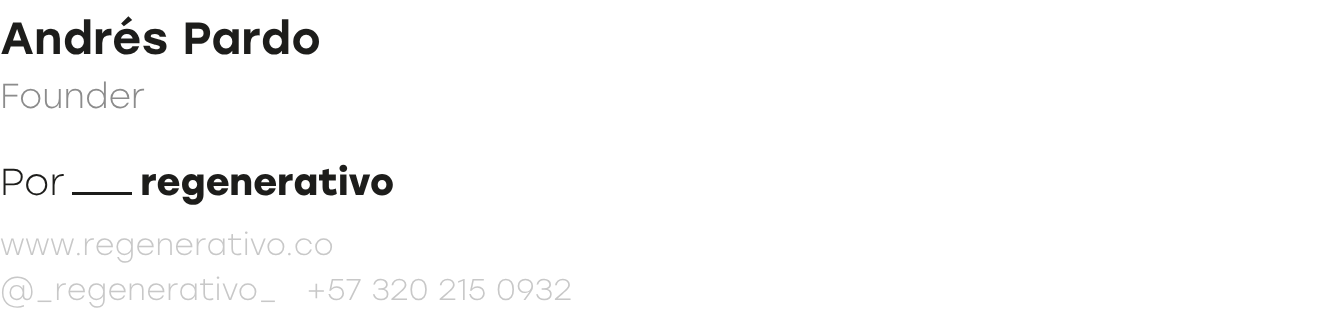
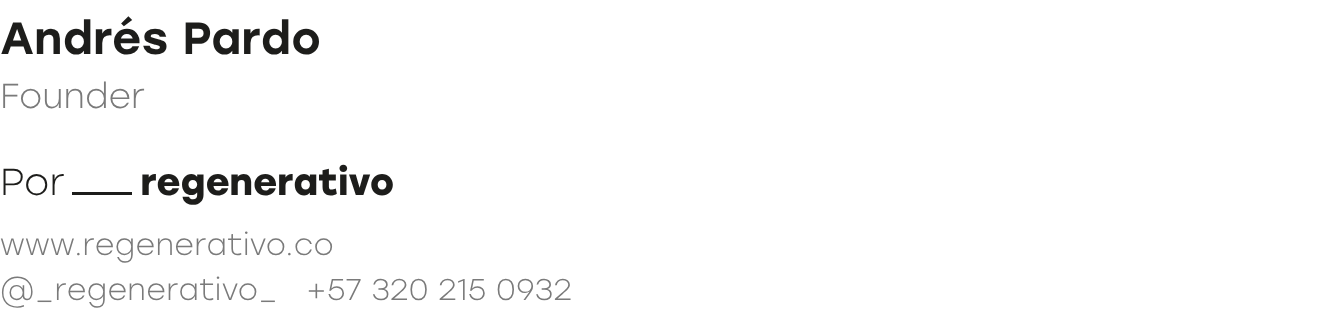
Correos: fondo blanco alineado a la izquierda, listas con línea punteada, cejas sin 'Portal de encargos', gris C (#7A7A7A) en textos delgados; firmas con el gris nuevo
Claude-Session: https://claude.ai/code/session_01WuZsYUNey8Chyf3KxhrfD2

Changed region(s): [[0.0, 0.7034, 0.2485, 0.7951], [0.2174, 0.8563, 0.4348, 0.9174], [0.0, 0.8563, 0.1864, 0.948]]

diff --git a/portal/supabase/functions/onedrive-conexion/index.ts b/portal/supabase/functions/onedrive-conexion/index.ts
@@ -383,14 +383,14 @@ async function subir(at: string, encargoId: string, carpeta: string, nombre: str
 // Membrete de los correos: encabezado y pie van como imagen (Stolzl se ve igual en cualquier correo); el texto en Metronic Pro con Arial de respaldo.
 const MEMB = "https://regenerativo.co/portal/assets/correo";
 const membrete = (contenido: string) => `<!doctype html><html><head><meta charset="utf-8"><style>@font-face{font-family:"Metronic Pro";src:url(https://regenerativo.co/portal/assets/fonts/metronic-regular.woff) format("woff")}</style></head>
-<body style="margin:0;padding:24px 0;background:#F4F4F2"><table role="presentation" width="600" align="center" cellpadding="0" cellspacing="0" style="width:600px;max-width:100%;background:#fff;border-collapse:collapse">
-<tr><td style="padding:26px 36px 0"><img src="${MEMB}/membrete-sup.png" width="528" alt="PORTAL DE ENCARGOS · regenerativo" style="display:block;width:528px;max-width:100%;height:auto;border:0"></td></tr>
-<tr><td style="padding:30px 36px 8px;font-family:'Metronic Pro',Arial,sans-serif;color:#1D1D1B;font-size:15px;line-height:1.55">${contenido}</td></tr>
-<tr><td style="padding:34px 36px 26px"><img src="${MEMB}/membrete-inf.png" width="528" alt="Área de Proyectos · Por _ regenerativo · www.regenerativo.co · @_regenerativo_ · +57 320 215 0932" style="display:block;width:528px;max-width:100%;height:auto;border:0"></td></tr>
+<body style="margin:0;padding:0;background:#ffffff"><table role="presentation" width="600" cellpadding="0" cellspacing="0" style="width:600px;max-width:100%;background:#ffffff;border-collapse:collapse;margin:0">
+<tr><td style="padding:32px 32px 0"><img src="${MEMB}/membrete-sup.png" width="440" alt="PORTAL DE ENCARGOS · regenerativo" style="display:block;width:440px;max-width:100%;height:auto;border:0"></td></tr>
+<tr><td style="padding:30px 32px 8px;font-family:'Metronic Pro',Arial,sans-serif;color:#1D1D1B;font-size:15px;line-height:1.55">${contenido}</td></tr>
+<tr><td style="padding:34px 32px 32px"><img src="${MEMB}/membrete-inf.png" width="440" alt="Área de Proyectos · Por _ regenerativo · www.regenerativo.co · @_regenerativo_ · +57 320 215 0932" style="display:block;width:440px;max-width:100%;height:auto;border:0"></td></tr>
 </table></body></html>`;
-const CEJA = (t: string) => `<p style="margin:0 0 6px;font-size:11px;letter-spacing:.12em;text-transform:uppercase;color:#BFBFBF">${t}</p>`;
+const CEJA = (t: string) => `<p style="margin:0 0 6px;font-size:11px;letter-spacing:.12em;text-transform:uppercase;color:#7A7A7A">${t}</p>`;
 const BOTON = (url: string) => `<p style="margin:24px 0"><a href="${url}" style="display:inline-block;background:#1D1D1B;color:#fff;text-decoration:none;border-radius:999px;padding:11px 22px;font-size:14px">Ver en el portal</a></p>`;
-const NOTA = `<p style="margin:0;color:#999;font-size:12px">Entra en la pestaña Clientes con el nombre del encargo y tu contraseña.</p>`;
+const NOTA = `<p style="margin:0;color:#7A7A7A;font-size:12px">Entra en la pestaña Clientes con el nombre del encargo y tu contraseña.</p>`;
 async function avisoComentario(id: string) {
   const { data: c } = await admin.from("comentarios").select("id,texto,tipo,autor_nombre,avisado,creado,encargo:encargos(nombre,codigo)").eq("id", id).single();
   if (!c) throw new Error("Comentario no encontrado.");
@@ -404,10 +404,10 @@ async function avisoComentario(id: string) {
   } catch (_) { return { enviado: false, motivo: "Falta el permiso para enviar correos: reconecta OneDrive en Ajustes." }; }
   const e: any = c.encargo || {};
   const esc = (s: string) => (s || "").replace(/[&<>]/g, (x) => ({ "&": "&amp;", "<": "&lt;", ">": "&gt;" } as any)[x]);
-  const html = membrete(`${CEJA(`${c.tipo === "duda" ? "Duda" : "Comentario"} de cliente · portal de encargos`)}
+  const html = membrete(`${CEJA(`${c.tipo === "duda" ? "Duda" : "Comentario"} de cliente`)}
     <h2 style="margin:0 0 6px;font-weight:400;font-size:22px;line-height:1.3">${esc(e.nombre)}</h2>
-    <p style="color:#999;margin:0 0 18px">${esc(c.autor_nombre || "Cliente")} · ${new Date(c.creado).toLocaleString("es-CO", { timeZone: "America/Bogota" })}</p>
-    <p style="font-size:16px;line-height:1.5;background:#F3EFE6;border-radius:14px;padding:16px">${esc(c.texto).replace(/\n/g, "<br>")}</p>
+    <p style="color:#7A7A7A;margin:0 0 18px">${esc(c.autor_nombre || "Cliente")} · ${new Date(c.creado).toLocaleString("es-CO", { timeZone: "America/Bogota" })}</p>
+    <p style="font-size:16px;line-height:1.5;border-top:1px dotted #CFCFCF;border-bottom:1px dotted #CFCFCF;padding:12px 0">${esc(c.texto).replace(/\n/g, "<br>")}</p>
     <p style="margin:24px 0"><a href="${PORTAL}#/encargos" style="display:inline-block;background:#1D1D1B;color:#fff;text-decoration:none;border-radius:999px;padding:11px 22px;font-size:14px">Responder en el portal</a></p>`);
   const r = await fetch("https://graph.microsoft.com/v1.0/me/sendMail", {
     method: "POST", headers: { Authorization: `Bearer ${at}`, "Content-Type": "application/json" },
@@ -434,10 +434,10 @@ const escH = (s: string) => (s || "").replace(/[&<>]/g, (x) => ({ "&": "&amp;", 
 async function avisoCliente(encargoId: string, accion: string, archivo: string) {
   const { data: e } = await admin.from("encargos").select("nombre").eq("id", encargoId).maybeSingle();
   const cuando = new Date().toLocaleString("es-CO", { timeZone: "America/Bogota" });
-  const html = membrete(`${CEJA(`Portal de encargos · ${escH(accion)}`)}
+  const html = membrete(`${CEJA(escH(accion))}
     <h2 style="margin:0 0 6px;font-weight:400;font-size:22px;line-height:1.3">${escH(e?.nombre || "")}</h2>
-    <p style="color:#999;margin:0 0 18px">${cuando}</p>
-    <p style="font-size:16px;line-height:1.5;background:#F3EFE6;border-radius:14px;padding:16px">${escH(archivo)}</p>`);
+    <p style="color:#7A7A7A;margin:0 0 18px">${cuando}</p>
+    <p style="font-size:16px;line-height:1.5;border-top:1px dotted #CFCFCF;border-bottom:1px dotted #CFCFCF;padding:12px 0">${escH(archivo)}</p>`);
   return correoProyectos(`${accion} · ${e?.nombre || ""}`, html);
 }
 // ---- Avisos al cliente por correo (desde la cuenta de regenerativo) ----
@@ -479,10 +479,10 @@ async function revisarEnvios() {
       const para = await correosCliente(e.id);
       if (para.length) {
         atCorreo = atCorreo || await tokenCorreo();
-        const items = nuevos.map((a: any) => `<li style="margin:4px 0">${escH(a.nombre)}</li>`).join("");
-        const html = plantillaCliente("Portal de encargos · nuevos documentos", e.nombre,
+        const items = nuevos.map((a: any) => `<li style="padding:9px 0;border-bottom:1px dotted #CFCFCF">${escH(a.nombre)}</li>`).join("");
+        const html = plantillaCliente("Nuevos documentos", e.nombre,
           `<p style="font-size:15px;line-height:1.5">Hola, te compartimos ${nuevos.length === 1 ? "un documento nuevo" : nuevos.length + " documentos nuevos"} del proyecto:</p>
-           <ul style="font-size:15px;line-height:1.5;background:#F3EFE6;border-radius:14px;padding:14px 14px 14px 34px">${items}</ul>`);
+           <ul style="list-style:none;margin:0;padding:0;font-size:15px;line-height:1.5;max-width:520px;border-top:1px dotted #CFCFCF">${items}</ul>`);
         enviado = await enviarCorreo(atCorreo, para, `${nuevos.length === 1 ? "Nuevo documento" : "Nuevos documentos"} · ${e.nombre}`, html);
         if (!enviado) continue;   // se reintenta en la próxima revisión
       }
@@ -501,9 +501,9 @@ async function avisoRespuesta(id: string) {
   if (!para.length) return { enviado: false, motivo: "El cliente no tiene correo para avisos (Ajustes del encargo)." };
   const at = await tokenCorreo();
   const nombre = (c as any).encargo?.nombre || "";
-  const html = plantillaCliente("Portal de encargos · respuesta de regenerativo", nombre,
-    `<p style="color:#999;margin:0 0 6px">Tu mensaje</p><p style="font-size:15px;line-height:1.5;margin:0 0 16px">${escH(c.texto).replace(/\n/g, "<br>")}</p>
-     <p style="color:#999;margin:0 0 6px">Respuesta</p><p style="font-size:16px;line-height:1.5;background:#F3EFE6;border-radius:14px;padding:16px;margin:0">${escH(c.respuesta).replace(/\n/g, "<br>")}</p>`);
+  const html = plantillaCliente("Respuesta de regenerativo", nombre,
+    `<p style="color:#7A7A7A;margin:0 0 6px">Tu mensaje</p><p style="font-size:15px;line-height:1.5;margin:0 0 16px">${escH(c.texto).replace(/\n/g, "<br>")}</p>
+     <p style="color:#7A7A7A;margin:0 0 6px">Respuesta</p><p style="font-size:16px;line-height:1.5;border-top:1px dotted #CFCFCF;border-bottom:1px dotted #CFCFCF;padding:12px 0;margin:0">${escH(c.respuesta).replace(/\n/g, "<br>")}</p>`);
   const ok = await enviarCorreo(at, para, `regenerativo respondió · ${nombre}`, html);
   if (ok) await admin.from("comentarios").update({ respuesta_avisada: new Date().toISOString() }).eq("id", id);
   return { enviado: ok };

diff --git a/portal/supabase/functions/correo-cliente/index.ts b/portal/supabase/functions/correo-cliente/index.ts
@@ -37,14 +37,14 @@ async function correosCliente(encargoId: string): Promise<string[]> {
 // Membrete de los correos: encabezado y pie van como imagen (Stolzl se ve igual en cualquier correo); el texto en Metronic Pro con Arial de respaldo.
 const MEMB = "https://regenerativo.co/portal/assets/correo";
 const membrete = (contenido: string) => `<!doctype html><html><head><meta charset="utf-8"><style>@font-face{font-family:"Metronic Pro";src:url(https://regenerativo.co/portal/assets/fonts/metronic-regular.woff) format("woff")}</style></head>
-<body style="margin:0;padding:24px 0;background:#F4F4F2"><table role="presentation" width="600" align="center" cellpadding="0" cellspacing="0" style="width:600px;max-width:100%;background:#fff;border-collapse:collapse">
-<tr><td style="padding:26px 36px 0"><img src="${MEMB}/membrete-sup.png" width="528" alt="PORTAL DE ENCARGOS · regenerativo" style="display:block;width:528px;max-width:100%;height:auto;border:0"></td></tr>
-<tr><td style="padding:30px 36px 8px;font-family:'Metronic Pro',Arial,sans-serif;color:#1D1D1B;font-size:15px;line-height:1.55">${contenido}</td></tr>
-<tr><td style="padding:34px 36px 26px"><img src="${MEMB}/membrete-inf.png" width="528" alt="Área de Proyectos · Por _ regenerativo · www.regenerativo.co · @_regenerativo_ · +57 320 215 0932" style="display:block;width:528px;max-width:100%;height:auto;border:0"></td></tr>
+<body style="margin:0;padding:0;background:#ffffff"><table role="presentation" width="600" cellpadding="0" cellspacing="0" style="width:600px;max-width:100%;background:#ffffff;border-collapse:collapse;margin:0">
+<tr><td style="padding:32px 32px 0"><img src="${MEMB}/membrete-sup.png" width="440" alt="PORTAL DE ENCARGOS · regenerativo" style="display:block;width:440px;max-width:100%;height:auto;border:0"></td></tr>
+<tr><td style="padding:30px 32px 8px;font-family:'Metronic Pro',Arial,sans-serif;color:#1D1D1B;font-size:15px;line-height:1.55">${contenido}</td></tr>
+<tr><td style="padding:34px 32px 32px"><img src="${MEMB}/membrete-inf.png" width="440" alt="Área de Proyectos · Por _ regenerativo · www.regenerativo.co · @_regenerativo_ · +57 320 215 0932" style="display:block;width:440px;max-width:100%;height:auto;border:0"></td></tr>
 </table></body></html>`;
-const CEJA = (t: string) => `<p style="margin:0 0 6px;font-size:11px;letter-spacing:.12em;text-transform:uppercase;color:#BFBFBF">${t}</p>`;
+const CEJA = (t: string) => `<p style="margin:0 0 6px;font-size:11px;letter-spacing:.12em;text-transform:uppercase;color:#7A7A7A">${t}</p>`;
 const BOTON = (url: string) => `<p style="margin:24px 0"><a href="${url}" style="display:inline-block;background:#1D1D1B;color:#fff;text-decoration:none;border-radius:999px;padding:11px 22px;font-size:14px">Ver en el portal</a></p>`;
-const NOTA = `<p style="margin:0;color:#999;font-size:12px">Entra en la pestaña Clientes con el nombre del encargo y tu contraseña.</p>`;
+const NOTA = `<p style="margin:0;color:#7A7A7A;font-size:12px">Entra en la pestaña Clientes con el nombre del encargo y tu contraseña.</p>`;
 function plantilla(ceja: string, titulo: string, cuerpo: string) {
   return membrete(`${CEJA(escH(ceja))}<h2 style="margin:0 0 18px;font-weight:400;font-size:22px;line-height:1.3">${escH(titulo)}</h2>${cuerpo}${BOTON(PORTAL)}${NOTA}`);
 }
@@ -93,10 +93,10 @@ async function revisarEnvios() {
       const para = await correosCliente(e.id);
       if (para.length) {
         atCorreo = atCorreo || await token("offline_access Mail.Send");
-        const items = nuevos.map((a) => `<li style="margin:4px 0">${escH(a.nombre)}</li>`).join("");
-        const html = plantilla("Portal de encargos · nuevos documentos", e.nombre,
+        const items = nuevos.map((a) => `<li style="padding:9px 0;border-bottom:1px dotted #CFCFCF">${escH(a.nombre)}</li>`).join("");
+        const html = plantilla("Nuevos documentos", e.nombre,
           `<p style="font-size:15px;line-height:1.5">Hola, te compartimos ${nuevos.length === 1 ? "un documento nuevo" : nuevos.length + " documentos nuevos"} del proyecto:</p>
-           <ul style="font-size:15px;line-height:1.5;background:#F3EFE6;border-radius:14px;padding:14px 14px 14px 34px">${items}</ul>`);
+           <ul style="list-style:none;margin:0;padding:0;font-size:15px;line-height:1.5;max-width:520px;border-top:1px dotted #CFCFCF">${items}</ul>`);
         enviado = await enviar(atCorreo, para, `${nuevos.length === 1 ? "Nuevo documento" : "Nuevos documentos"} · ${e.nombre}`, html);
         if (!enviado) continue;   // se reintenta en la próxima revisión
       }
@@ -115,9 +115,9 @@ async function avisoRespuesta(id: string) {
   if (!para.length) return { enviado: false, motivo: "El cliente no tiene correo para avisos (Ajustes del encargo)." };
   const at = await token("offline_access Mail.Send");
   const nombre = (c as any).encargo?.nombre || "";
-  const html = plantilla("Portal de encargos · respuesta de regenerativo", nombre,
-    `<p style="color:#999;margin:0 0 6px">Tu mensaje</p><p style="font-size:15px;line-height:1.5;margin:0 0 16px">${escH(c.texto).replace(/\n/g, "<br>")}</p>
-     <p style="color:#999;margin:0 0 6px">Respuesta</p><p style="font-size:16px;line-height:1.5;background:#F3EFE6;border-radius:14px;padding:16px;margin:0">${escH(c.respuesta).replace(/\n/g, "<br>")}</p>`);
+  const html = plantilla("Respuesta de regenerativo", nombre,
+    `<p style="color:#7A7A7A;margin:0 0 6px">Tu mensaje</p><p style="font-size:15px;line-height:1.5;margin:0 0 16px">${escH(c.texto).replace(/\n/g, "<br>")}</p>
+     <p style="color:#7A7A7A;margin:0 0 6px">Respuesta</p><p style="font-size:16px;line-height:1.5;border-top:1px dotted #CFCFCF;border-bottom:1px dotted #CFCFCF;padding:12px 0;margin:0">${escH(c.respuesta).replace(/\n/g, "<br>")}</p>`);
   const ok = await enviar(at, para, `regenerativo respondió · ${nombre}`, html);
   if (ok) await admin.from("comentarios").update({ respuesta_avisada: new Date().toISOString() }).eq("id", id);
   return { enviado: ok, desde: comoProyectos === false ? CORREO_APARDO : CORREO_PROYECTOS };
@@ -137,10 +137,10 @@ Deno.serve(async (req) => {
       const { data: k } = await admin.from("integraciones").select("refresh_token").eq("id", "cron").maybeSingle();
       if (!k?.refresh_token || b.clave !== k.refresh_token) return json({ error: "Sin acceso." }, 403);
       const at = await token("offline_access Mail.Send");
-      const html = plantilla("Portal de encargos · nuevos documentos", "26  I  EJEMPLO (PRUEBA)",
+      const html = plantilla("Nuevos documentos", "26  I  EJEMPLO (PRUEBA)",
         `<p style="font-size:15px;line-height:1.5">Hola, te compartimos un documento nuevo del proyecto:</p>
-         <ul style="font-size:15px;line-height:1.5;background:#F3EFE6;border-radius:14px;padding:14px 14px 14px 34px"><li style="margin:4px 0">EJEMPLO DE DOCUMENTO.pdf</li></ul>
-         <p style="color:#999;font-size:12px">Este es un correo de prueba del portal: así le llegan los avisos al cliente.</p>`);
+         <ul style="list-style:none;margin:0;padding:0;font-size:15px;line-height:1.5;max-width:520px;border-top:1px dotted #CFCFCF"><li style="padding:9px 0;border-bottom:1px dotted #CFCFCF">EJEMPLO DE DOCUMENTO.pdf</li></ul>
+         <p style="color:#7A7A7A;font-size:12px">Este es un correo de prueba del portal: así le llegan los avisos al cliente.</p>`);
       const ok = await enviarCliente(at, [CORREO_APARDO], "Prueba · Nuevo documento · 26  I  EJEMPLO", html);
       return json({ enviado: ok, desde: comoProyectos ? CORREO_PROYECTOS : CORREO_APARDO });
     }

diff --git a/portal/supabase/functions/avisos-cliente/index.ts b/portal/supabase/functions/avisos-cliente/index.ts
@@ -52,15 +52,15 @@ async function documentos(at: string, base: string) {
 // Membrete de los correos: encabezado y pie van como imagen (Stolzl se ve igual en cualquier correo); el texto en Metronic Pro con Arial de respaldo.
 const MEMB = "https://regenerativo.co/portal/assets/correo";
 const membrete = (contenido: string) => `<!doctype html><html><head><meta charset="utf-8"><style>@font-face{font-family:"Metronic Pro";src:url(https://regenerativo.co/portal/assets/fonts/metronic-regular.woff) format("woff")}</style></head>
-<body style="margin:0;padding:24px 0;background:#F4F4F2"><table role="presentation" width="600" align="center" cellpadding="0" cellspacing="0" style="width:600px;max-width:100%;background:#fff;border-collapse:collapse">
-<tr><td style="padding:26px 36px 0"><img src="${MEMB}/membrete-sup.png" width="528" alt="PORTAL DE ENCARGOS · regenerativo" style="display:block;width:528px;max-width:100%;height:auto;border:0"></td></tr>
-<tr><td style="padding:30px 36px 8px;font-family:'Metronic Pro',Arial,sans-serif;color:#1D1D1B;font-size:15px;line-height:1.55">${contenido}</td></tr>
-<tr><td style="padding:34px 36px 26px"><img src="${MEMB}/membrete-inf.png" width="528" alt="Área de Proyectos · Por _ regenerativo · www.regenerativo.co · @_regenerativo_ · +57 320 215 0932" style="display:block;width:528px;max-width:100%;height:auto;border:0"></td></tr>
+<body style="margin:0;padding:0;background:#ffffff"><table role="presentation" width="600" cellpadding="0" cellspacing="0" style="width:600px;max-width:100%;background:#ffffff;border-collapse:collapse;margin:0">
+<tr><td style="padding:32px 32px 0"><img src="${MEMB}/membrete-sup.png" width="440" alt="PORTAL DE ENCARGOS · regenerativo" style="display:block;width:440px;max-width:100%;height:auto;border:0"></td></tr>
+<tr><td style="padding:30px 32px 8px;font-family:'Metronic Pro',Arial,sans-serif;color:#1D1D1B;font-size:15px;line-height:1.55">${contenido}</td></tr>
+<tr><td style="padding:34px 32px 32px"><img src="${MEMB}/membrete-inf.png" width="440" alt="Área de Proyectos · Por _ regenerativo · www.regenerativo.co · @_regenerativo_ · +57 320 215 0932" style="display:block;width:440px;max-width:100%;height:auto;border:0"></td></tr>
 </table></body></html>`;
-const CEJA = (t: string) => `<p style="margin:0 0 6px;font-size:11px;letter-spacing:.12em;text-transform:uppercase;color:#BFBFBF">${t}</p>`;
+const CEJA = (t: string) => `<p style="margin:0 0 6px;font-size:11px;letter-spacing:.12em;text-transform:uppercase;color:#7A7A7A">${t}</p>`;
 const BOTON = (url: string) => `<p style="margin:24px 0"><a href="${url}" style="display:inline-block;background:#1D1D1B;color:#fff;text-decoration:none;border-radius:999px;padding:11px 22px;font-size:14px">Ver en el portal</a></p>`;
-const NOTA = `<p style="margin:0;color:#999;font-size:12px">Entra en la pestaña Clientes con el nombre del encargo y tu contraseña.</p>`;
-const plantilla = (titulo: string, cuerpo: string) => membrete(`${CEJA("Portal de encargos · actualización")}<h2 style="margin:0 0 18px;font-weight:400;font-size:22px;line-height:1.3">${esc(titulo)}</h2>${cuerpo}${BOTON(PORTAL)}${NOTA}`);
+const NOTA = `<p style="margin:0;color:#7A7A7A;font-size:12px">Entra en la pestaña Clientes con el nombre del encargo y tu contraseña.</p>`;
+const plantilla = (titulo: string, cuerpo: string) => membrete(`${CEJA("Actualización")}<h2 style="margin:0 0 18px;font-weight:400;font-size:22px;line-height:1.3">${esc(titulo)}</h2>${cuerpo}${BOTON(PORTAL)}${NOTA}`);
 
 // Sale como proyectos@regenerativo.co con copia a apardo@. Si Microsoft no deja "Enviar como" proyectos@, sale de apardo@ con copia a proyectos@.
 const CORREO_APARDO = "apardo@regenerativo.co";
@@ -124,14 +124,14 @@ async function revisar() {
       atCorreo = atCorreo || await token("offline_access Mail.Send");
       const partes: string[] = [];
       if (nuevosAll.length) partes.push(`<p style="font-size:15px;line-height:1.5">${nuevosAll.length === 1 ? "Hay un documento nuevo" : `Hay ${nuevosAll.length} documentos nuevos`} en Legales:</p>
-        <ul style="font-size:15px;line-height:1.5;background:#F3EFE6;border-radius:14px;padding:14px 14px 14px 34px">${nuevosAll.map((d) => `<li>${esc(d.nombre)}</li>`).join("")}</ul>`);
+        <ul style="list-style:none;margin:0;padding:0;font-size:15px;line-height:1.5;max-width:520px;border-top:1px dotted #CFCFCF">${nuevosAll.map((d) => `<li style="padding:9px 0;border-bottom:1px dotted #CFCFCF">${esc(d.nombre)}</li>`).join("")}</ul>`);
       for (const [pre, nom] of [["PRESUPUESTO", "Presupuesto"], ["PROGRAMACI", "Programación"]]) {
         const l = nuevosObra.filter((d) => d.ruta.startsWith(pre)); if (!l.length) continue;
         partes.push(`<p style="font-size:15px;line-height:1.5">${l.length === 1 ? "Hay un archivo nuevo" : `Hay ${l.length} archivos nuevos`} en <b>${nom}</b>:</p>
-        <ul style="font-size:15px;line-height:1.5;background:#F3EFE6;border-radius:14px;padding:14px 14px 14px 34px">${l.map((d) => `<li>${esc(d.ruta.split("/").slice(1).join(" / "))}</li>`).join("")}</ul>`);
+        <ul style="list-style:none;margin:0;padding:0;font-size:15px;line-height:1.5;max-width:520px;border-top:1px dotted #CFCFCF">${l.map((d) => `<li style="padding:9px 0;border-bottom:1px dotted #CFCFCF">${d.ruta.split("/").length > 2 ? `<span style="color:#7A7A7A">${esc(d.ruta.split("/").slice(1, -1).join(" / "))}</span>&nbsp;&nbsp;` : ""}${esc(d.nombre)}</li>`).join("")}</ul>`);
       }
       if (actualizados.length) partes.push(`<p style="font-size:15px;line-height:1.5">Se ${actualizados.length === 1 ? "actualizó un documento" : `actualizaron ${actualizados.length} documentos`} del proyecto:</p>
-        <ul style="font-size:15px;line-height:1.5;background:#F3EFE6;border-radius:14px;padding:14px 14px 14px 34px">${actualizados.map((d) => `<li>${esc(d.nombre)}</li>`).join("")}</ul>`);
+        <ul style="list-style:none;margin:0;padding:0;font-size:15px;line-height:1.5;max-width:520px;border-top:1px dotted #CFCFCF">${actualizados.map((d) => `<li style="padding:9px 0;border-bottom:1px dotted #CFCFCF">${esc(d.nombre)}</li>`).join("")}</ul>`);
       if (avisarG) { const av = (t || []).length ? Math.round((t || []).reduce((s: number, x: any) => s + Number(x.avance || 0), 0) / (t || []).length * 100) : 0;
         partes.push(`<p style="font-size:15px;line-height:1.5">Se actualizó el <b>cronograma de obra</b> (${(t || []).length} actividades · avance promedio ${av} %).</p>`); }
       enviado = await enviarCliente(atCorreo, para, `Actualización · ${e.nombre}`, plantilla(e.nombre, partes.join("")));

diff --git a/portal/supabase/functions/subir-cliente/index.ts b/portal/supabase/functions/subir-cliente/index.ts
@@ -34,12 +34,12 @@ async function asegurarCarpeta(at: string, ruta: string) {
 // Membrete de los correos: encabezado y pie van como imagen (Stolzl se ve igual en cualquier correo); el texto en Metronic Pro con Arial de respaldo.
 const MEMB = "https://regenerativo.co/portal/assets/correo";
 const membrete = (contenido: string) => `<!doctype html><html><head><meta charset="utf-8"><style>@font-face{font-family:"Metronic Pro";src:url(https://regenerativo.co/portal/assets/fonts/metronic-regular.woff) format("woff")}</style></head>
-<body style="margin:0;padding:24px 0;background:#F4F4F2"><table role="presentation" width="600" align="center" cellpadding="0" cellspacing="0" style="width:600px;max-width:100%;background:#fff;border-collapse:collapse">
-<tr><td style="padding:26px 36px 0"><img src="${MEMB}/membrete-sup.png" width="528" alt="PORTAL DE ENCARGOS · regenerativo" style="display:block;width:528px;max-width:100%;height:auto;border:0"></td></tr>
-<tr><td style="padding:30px 36px 8px;font-family:'Metronic Pro',Arial,sans-serif;color:#1D1D1B;font-size:15px;line-height:1.55">${contenido}</td></tr>
-<tr><td style="padding:34px 36px 26px"><img src="${MEMB}/membrete-inf.png" width="528" alt="Área de Proyectos · Por _ regenerativo · www.regenerativo.co · @_regenerativo_ · +57 320 215 0932" style="display:block;width:528px;max-width:100%;height:auto;border:0"></td></tr>
+<body style="margin:0;padding:0;background:#ffffff"><table role="presentation" width="600" cellpadding="0" cellspacing="0" style="width:600px;max-width:100%;background:#ffffff;border-collapse:collapse;margin:0">
+<tr><td style="padding:32px 32px 0"><img src="${MEMB}/membrete-sup.png" width="440" alt="PORTAL DE ENCARGOS · regenerativo" style="display:block;width:440px;max-width:100%;height:auto;border:0"></td></tr>
+<tr><td style="padding:30px 32px 8px;font-family:'Metronic Pro',Arial,sans-serif;color:#1D1D1B;font-size:15px;line-height:1.55">${contenido}</td></tr>
+<tr><td style="padding:34px 32px 32px"><img src="${MEMB}/membrete-inf.png" width="440" alt="Área de Proyectos · Por _ regenerativo · www.regenerativo.co · @_regenerativo_ · +57 320 215 0932" style="display:block;width:440px;max-width:100%;height:auto;border:0"></td></tr>
 </table></body></html>`;
-const CEJA = (t: string) => `<p style="margin:0 0 6px;font-size:11px;letter-spacing:.12em;text-transform:uppercase;color:#BFBFBF">${t}</p>`;
+const CEJA = (t: string) => `<p style="margin:0 0 6px;font-size:11px;letter-spacing:.12em;text-transform:uppercase;color:#7A7A7A">${t}</p>`;
 
 Deno.serve(async (req) => {
   if (req.method === "OPTIONS") return new Response("ok", { headers: CORS });
@@ -68,10 +68,10 @@ Deno.serve(async (req) => {
     if (!esAdmin) {
       try {
         const am = await token("offline_access Mail.Send");
-        const html = membrete(`${CEJA("Portal de encargos · el cliente compartió un documento")}
+        const html = membrete(`${CEJA("El cliente compartió un documento")}
           <h2 style="margin:0 0 6px;font-weight:400;font-size:22px;line-height:1.3">${escH(e.nombre)}</h2>
-          <p style="color:#999;margin:0 0 18px">${new Date().toLocaleString("es-CO", { timeZone: "America/Bogota" })} · ${escH(carpeta)}</p>
-          <p style="font-size:16px;line-height:1.5;background:#F3EFE6;border-radius:14px;padding:16px">${escH(d.name)}</p>`);
+          <p style="color:#7A7A7A;margin:0 0 18px">${new Date().toLocaleString("es-CO", { timeZone: "America/Bogota" })} · ${escH(carpeta)}</p>
+          <p style="font-size:16px;line-height:1.5;border-top:1px dotted #CFCFCF;border-bottom:1px dotted #CFCFCF;padding:12px 0">${escH(d.name)}</p>`);
         await G(am, "/me/sendMail", { method: "POST", headers: { "Content-Type": "application/json" },
           body: JSON.stringify({ message: { subject: `El cliente compartió un documento · ${e.nombre}`, body: { contentType: "HTML", content: html }, toRecipients: [{ emailAddress: { address: CORREO_PROYECTOS } }] }, saveToSentItems: false }) });
       } catch (_) { /* el archivo ya quedó guardado */ }

diff --git a/portal/assets/correo/firma-apardo-texto.html b/portal/assets/correo/firma-apardo-texto.html
@@ -1,4 +1,4 @@
 <!doctype html><html><head><meta charset="utf-8"><meta name="viewport" content="width=device-width,initial-scale=1"><title>FIRMA APARDO</title></head>
 <body style="margin:32px 24px;background:#fff">
-<div style="font-family:'Avenir Next','Avenir','Helvetica Neue',Arial,sans-serif;color:#1D1D1B;line-height:1.45"><b style="font-size:15px;font-weight:600;color:#1D1D1B">Andrés Pardo</b><br><span style="font-size:12px;color:#8C8C8C">Founder</span><br><br><span style="font-size:13px;color:#1D1D1B">Por ___ <b style="font-weight:700">regenerativo</b></span><br><span style="font-size:11px;color:#A6A6A6">www.regenerativo.co</span><br><span style="font-size:11px;color:#A6A6A6">@_regenerativo_ &nbsp; +57 320 215 0932</span></div>
+<div style="font-family:'Avenir Next','Avenir','Helvetica Neue',Arial,sans-serif;color:#1D1D1B;line-height:1.45"><b style="font-size:15px;font-weight:600;color:#1D1D1B">Andrés Pardo</b><br><span style="font-size:12px;color:#7A7A7A">Founder</span><br><br><span style="font-size:13px;color:#1D1D1B">Por ___ <b style="font-weight:700">regenerativo</b></span><br><span style="font-size:11px;color:#7A7A7A">www.regenerativo.co</span><br><span style="font-size:11px;color:#7A7A7A">@_regenerativo_ &nbsp; +57 320 215 0932</span></div>
 </body></html>

diff --git a/portal/assets/correo/firma-proyectos-texto.html b/portal/assets/correo/firma-proyectos-texto.html
@@ -1,4 +1,4 @@
 <!doctype html><html><head><meta charset="utf-8"><meta name="viewport" content="width=device-width,initial-scale=1"><title>FIRMA PROYECTOS</title></head>
 <body style="margin:32px 24px;background:#fff">
-<div style="font-family:'Avenir Next','Avenir','Helvetica Neue',Arial,sans-serif;color:#1D1D1B;line-height:1.45"><b style="font-size:15px;font-weight:600;color:#1D1D1B">Área de Proyectos</b><br><br><span style="font-size:13px;color:#1D1D1B">Por ___ <b style="font-weight:700">regenerativo</b></span><br><span style="font-size:11px;color:#A6A6A6">www.regenerativo.co</span><br><span style="font-size:11px;color:#A6A6A6">@_regenerativo_ &nbsp; +57 320 215 0932</span></div>
+<div style="font-family:'Avenir Next','Avenir','Helvetica Neue',Arial,sans-serif;color:#1D1D1B;line-height:1.45"><b style="font-size:15px;font-weight:600;color:#1D1D1B">Área de Proyectos</b><br><br><span style="font-size:13px;color:#1D1D1B">Por ___ <b style="font-weight:700">regenerativo</b></span><br><span style="font-size:11px;color:#7A7A7A">www.regenerativo.co</span><br><span style="font-size:11px;color:#7A7A7A">@_regenerativo_ &nbsp; +57 320 215 0932</span></div>
 </body></html>
